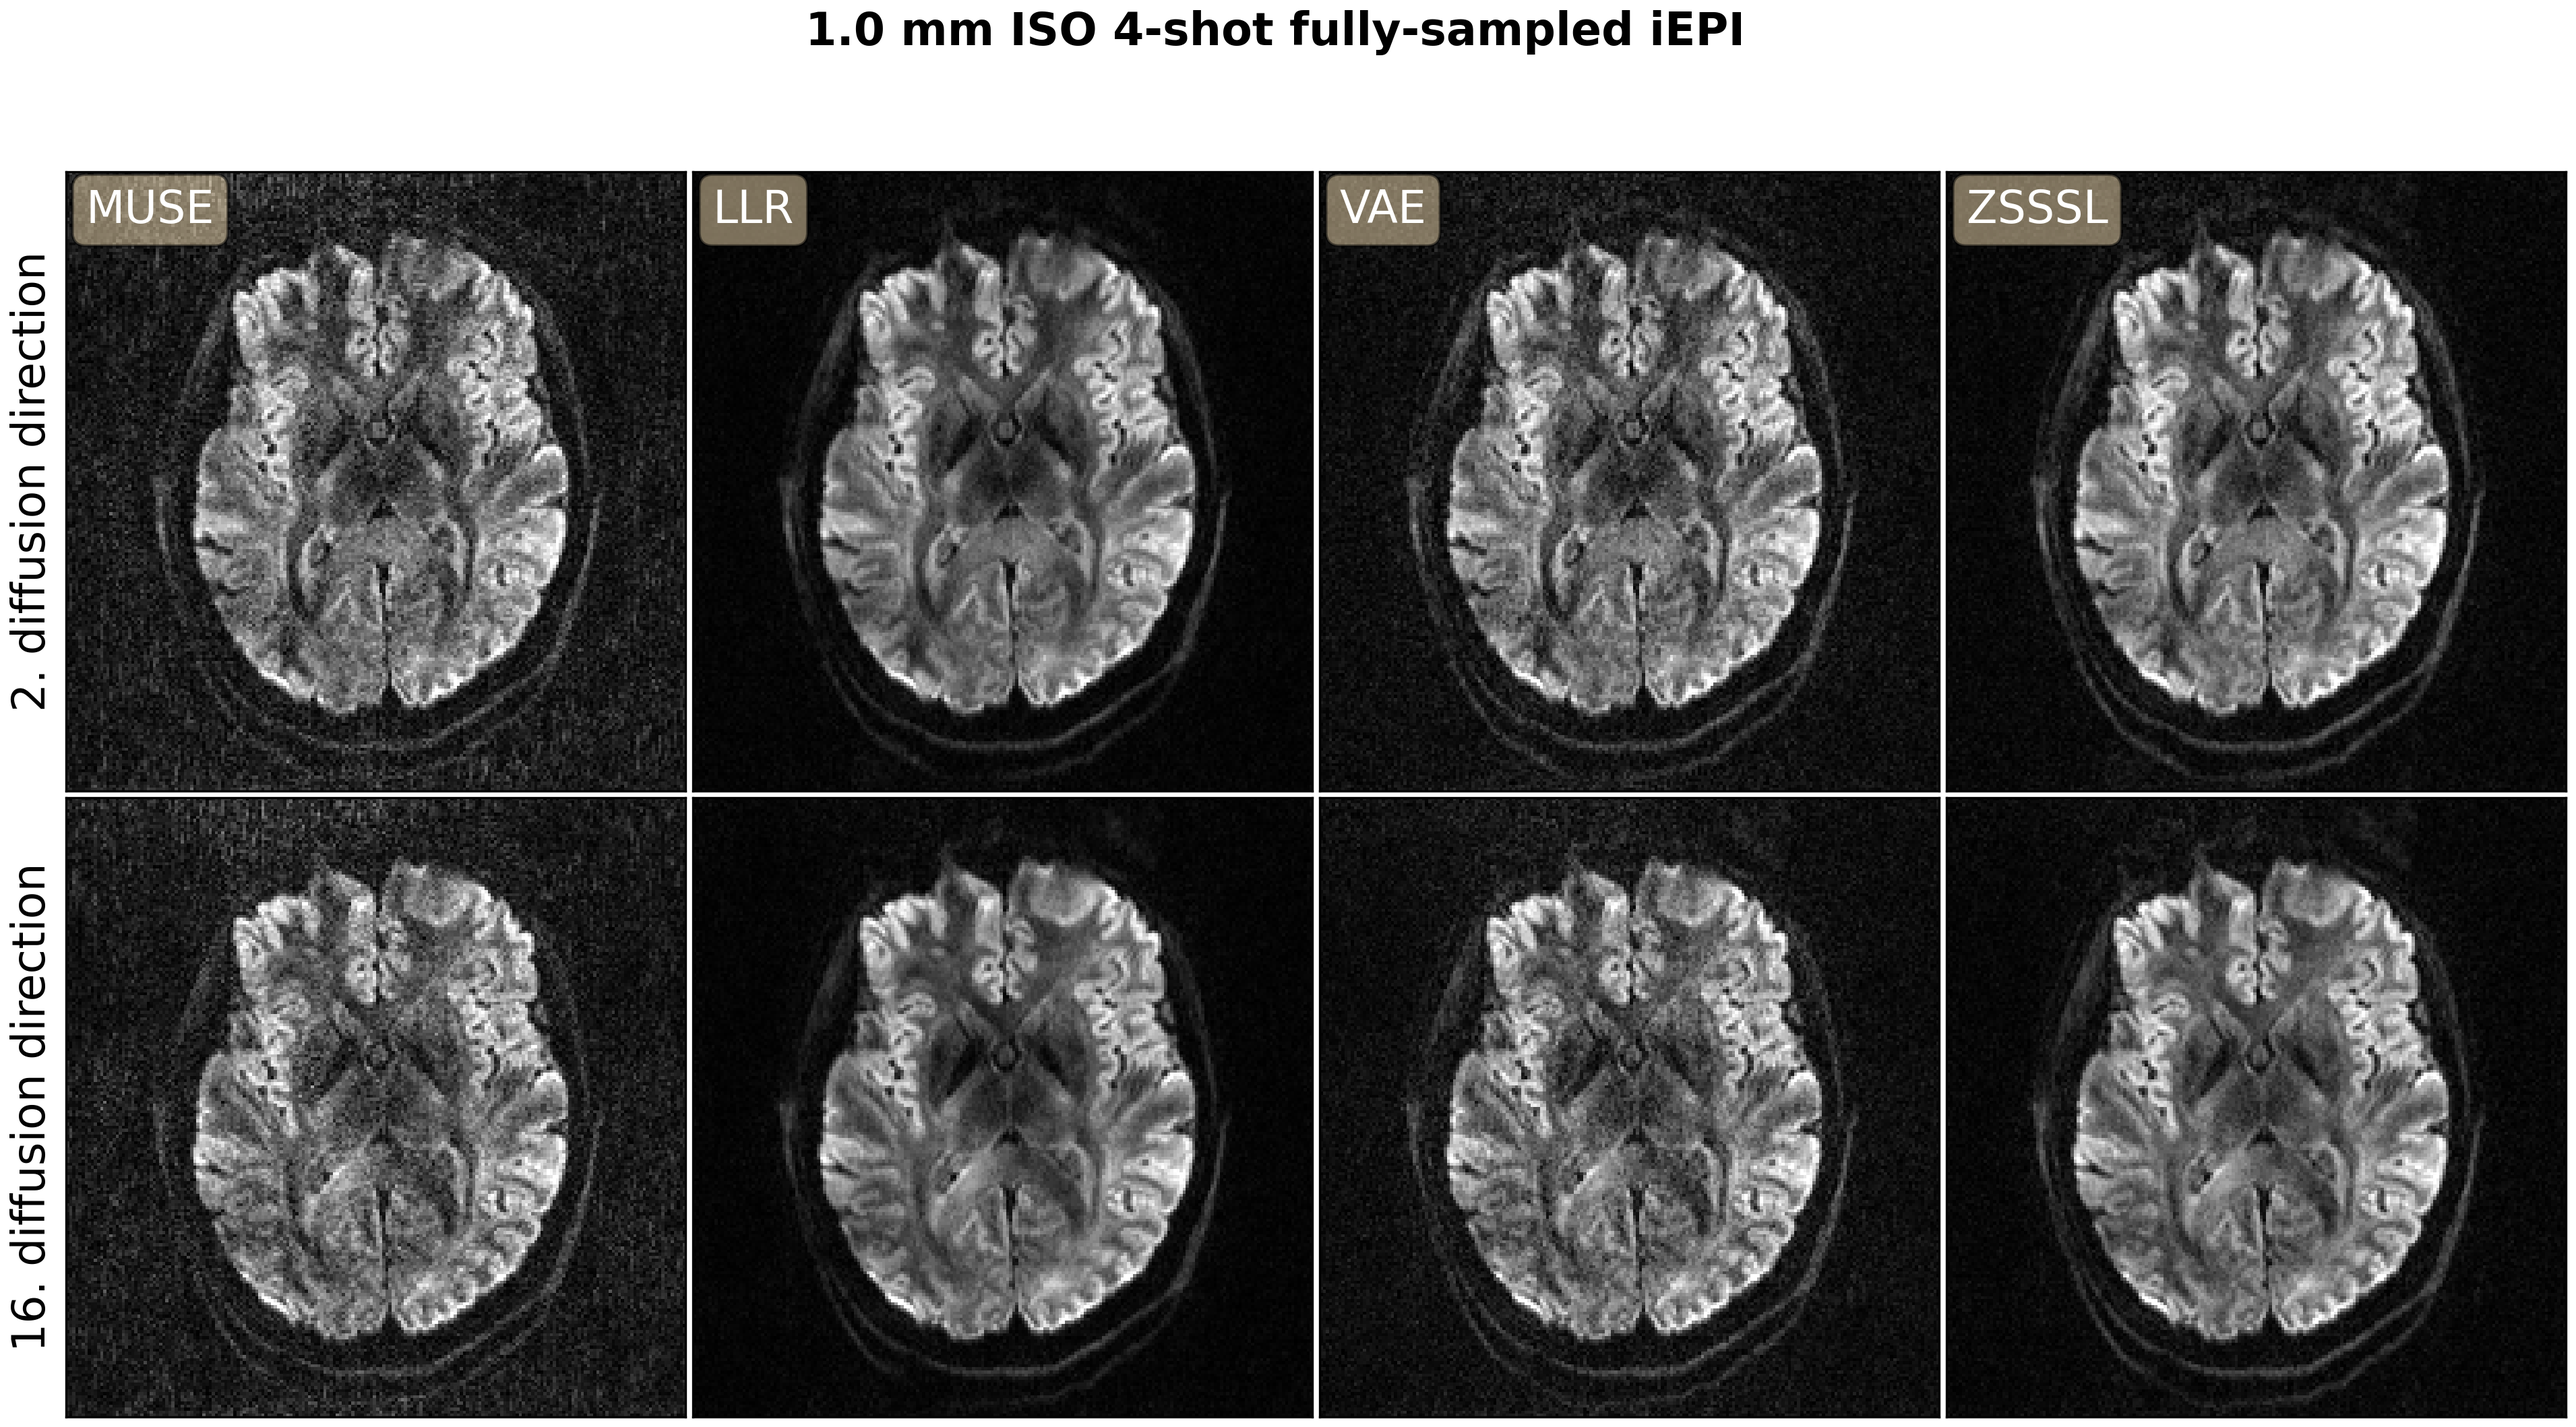
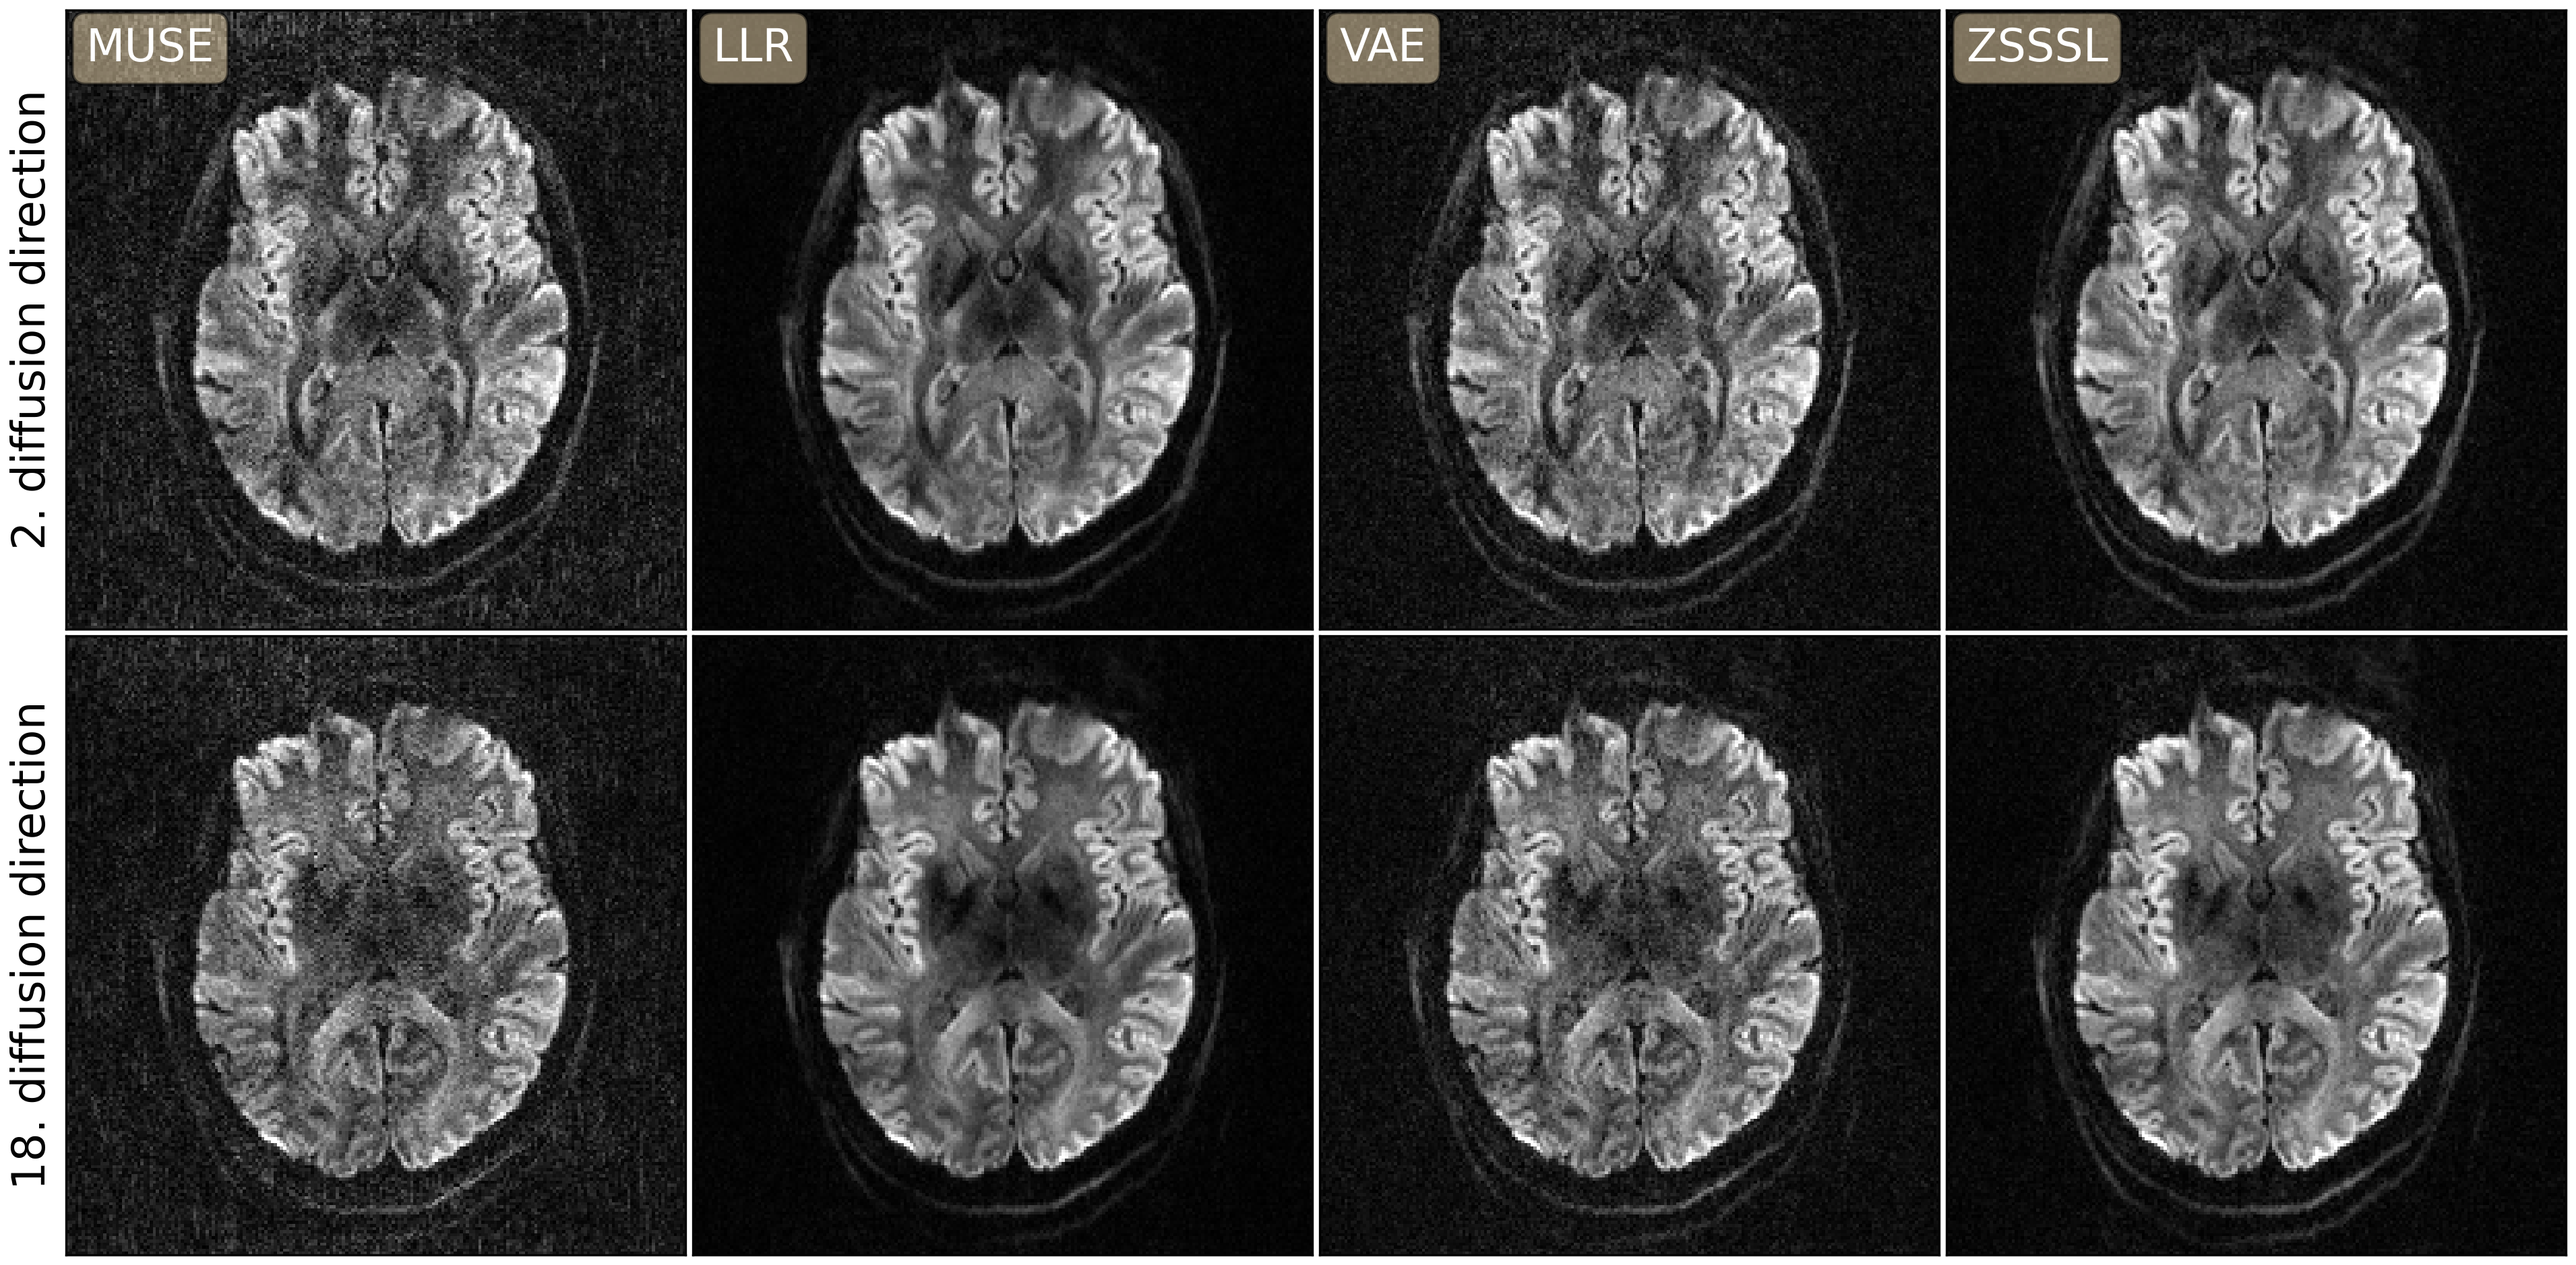
update figures/regularizations: retro 2-shot experiment

diff --git a/figures/regularizations/plot_shot-retro-2.py b/figures/regularizations/plot_shot-retro-2.py
@@ -12,12 +12,12 @@ HOME_DIR = DIR.rsplit('/', 1)[0].rsplit('/', 1)[0]
 print('> HOME: ', HOME_DIR)
 
 # %% load images
-f = h5py.File(DIR + '/llr_regu.h5', 'r')
-DWI_MUSE = f['MUSE'][:]
+f = h5py.File(DIR + '/llr_regu_shot-retro-2.h5', 'r')  # TODO:
 DWI_LLR = np.squeeze(f['LLR'][:])
 f.close()
 
-f = h5py.File(DIR + '/vae_regu.h5', 'r')
+f = h5py.File(DIR + '/vae_regu_shot-retro-2.h5', 'r')
+DWI_MUSE = f['MUSE'][:]
 DWI_VAE = np.squeeze(f['VAE'][:])
 f.close()
 
@@ -26,7 +26,7 @@ print('> LLR shape: ', DWI_LLR.shape)
 print('> VAE shape: ', DWI_VAE.shape)
 
 # read in zsssl
-with open(DIR + '/config_zsssl.yaml', 'r') as f:
+with open(DIR + '/config_zsssl_shot-retro-2.yaml', 'r') as f:
     config_dict = yaml.load(f, Loader=yaml.FullLoader)
 
 test_conf = config_dict.get('test', {})
@@ -36,7 +36,7 @@ ZSSSL_DIR = checkpoint_dir.rsplit('/', 1)[0]
 data_conf = config_dict.get('data', {})
 slice_idx = data_conf['slice_idx']
 
-f = h5py.File(HOME_DIR + ZSSSL_DIR + '/zsssl_slice_' + str(slice_idx).zfill(3) + '.h5')
+f = h5py.File(HOME_DIR + ZSSSL_DIR + '/zsssl_slice_' + str(slice_idx).zfill(3) + '_test_shot-retro-2.h5')
 DWI_ZSSSL = np.squeeze(f['ZS'][:])
 f.close()
 
@@ -91,8 +91,8 @@ for m in range(N_row):
             ax[m,n].set_ylabel(str(diff_idx[m]) + '. diffusion direction',
                                fontsize=16)
 
-# plt.suptitle('1.0 mm ISO 4-shot fully-sampled iEPI', fontsize=16, fontweight='bold')
+# plt.suptitle('1.0 mm ISO retrospectively 2-shot undersampled iEPI', fontsize=16, fontweight='bold')
 plt.subplots_adjust(wspace=0, hspace=0.01)
-plt.savefig(DIR + '/regularizations.png',
+plt.savefig(DIR + '/regularizations_shot-retro-2.png',
             bbox_inches='tight', pad_inches=0.05, dpi=300)
 plt.close()

diff --git a/figures/regularizations/run_llr_regularization.py b/figures/regularizations/run_llr_regularization.py
@@ -59,7 +59,7 @@ args = parser.parse_args()
 
 # %% MUSE reconstruction
 print('>>> MUSE reconstruction ...')
-coil4, kdat6, phase_shot, phase_slice, mask, DWI_MUSE = \
+coil4, kdat6, kdat_scaling, phase_shot, phase_slice, mask, DWI_MUSE = \
     prep.prep_dwi_data(data_file=data_conf['kdat'],
                        navi_file=data_conf['navi'],
                        coil_file=data_conf['coil'],

diff --git a/figures/regularizations/run_vae_regularization.py b/figures/regularizations/run_vae_regularization.py
@@ -57,7 +57,7 @@ args = parser.parse_args()
 
 # %% MUSE reconstruction
 print('>>> MUSE reconstruction ...')
-coil4, kdat6, phase_shot, phase_slice, mask, DWI_MUSE = \
+coil4, kdat6, kdat_scaling, phase_shot, phase_slice, mask, DWI_MUSE = \
     prep.prep_dwi_data(data_file=data_conf['kdat'],
                        navi_file=data_conf['navi'],
                        coil_file=data_conf['coil'],

diff --git a/figures/regularizations/README.md b/figures/regularizations/README.md
@@ -4,7 +4,7 @@
 * Variatinal AutoEncoder (VAE)
 * Zero-Shot Self-Supervised Learning (ZSSSL)
 
-## 0. setup the directory of the `DeepDWI` folder in the terminal:
+## setup the directory of the `DeepDWI` folder in the terminal:
 
 ```bash
 export DWIDIR=/path/to/DeepDWI
@@ -13,21 +13,46 @@ cd ${DWIDIR}/figures/regularizations
 
 ## 1. run the reconstruction with the LLR regularization:
 
+#### (a) 4-shot fully-sampled data
+
 ```bash
 python run_llr_regularization.py
 ```
 
+#### (b) retrospectively 2-shot undersampled data
+
+```bash
+python run_llr_regularization.py --N_shot_retro 2
+```
+
 ## 2. run the reconstruction with the learned VAE model as regularization:
+
+#### (a) 4-shot fully-sampled data
 
 ```bash
 python run_vae_regularization.py
 ```
 
+#### (b) retrospectively 2-shot undersampled data
+
+```bash
+python run_vae_regularization.py --N_shot_retro 2
+```
+
 ## 3. run ZSSSL
+
+#### (a) training and testing on 4-shot fully-sampled data
 
 ```bash
 python ../../examples/run_zsssl.py --config /figures/regularizations/config_zsssl.yaml --mode train
 python ../../examples/run_zsssl.py --config /figures/regularizations/config_zsssl.yaml --mode test
+```
+
+#### (c) training and testing on 2-shot undersampled data
+
+```bash
+python ../../examples/run_zsssl.py --config /figures/regularizations/config_zsssl_shot-retro-2.yaml --mode train --N_shot_retro 2
+python ../../examples/run_zsssl.py --config /figures/regularizations/config_zsssl_shot-retro-2.yaml --mode test --N_shot_retro 2
 ```
 
 ## 4. plot results
